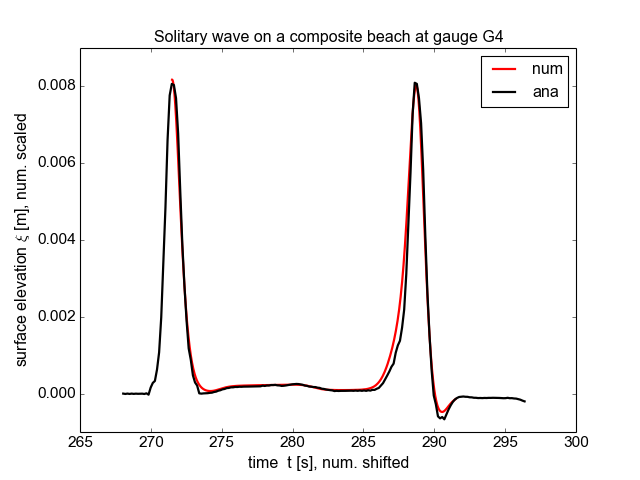
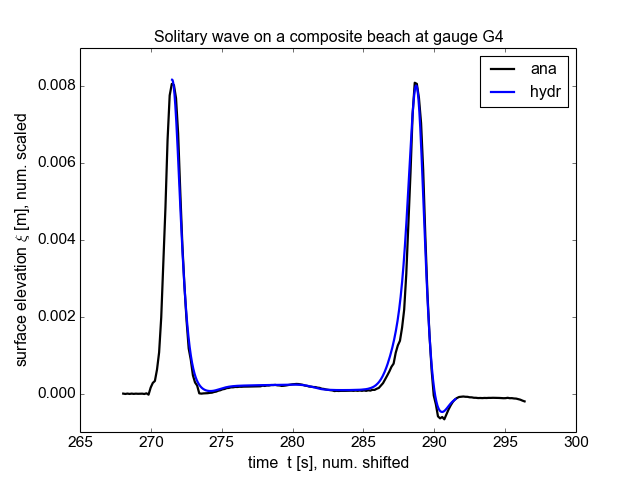
added dispersive results of composite beach, adapt figures of hydrostatic results

diff --git a/doc/papers/theoretical_1d/B_compositebeach.tex b/doc/papers/theoretical_1d/B_compositebeach.tex
@@ -41,7 +41,7 @@ The initial condition is prescribed as
 \xi(\bx,t)&=a \ \text{cosh}^{-2}(K(x-ct-x_0)), \\
 u(\bx,t)&=c\frac{\xi(\bx,t)}{d},
 \end{align}
-with the initial actual amplitude $a$, propagation velocity $c=\csw$ on a stepwise reduced depth starting from $d=0.218 \, \text{m}$ with scale factor $K=\sqrt{\left(\frac{3a}{4d^3}\right)}$ and displacement $x_0=10.59$, s.t. the initial solitary wave has its maximum at gauge G4 while the entire domain length is $L=24 \, \text{m}$. The simulation time is $20$ seconds. 
+with the initial target (but should better do it with actual amplitude, than the scaling of 0.75, which is the relation of both, should be redundant) amplitude $a$, propagation velocity $c=\csw$ on a stepwise reduced depth starting from $d=0.218 \, \text{m}$ with scale factor $K=\sqrt{\left(\frac{3a}{4d^3}\right)}$ and displacement $x_0=10.59$, s.t. the initial solitary wave has its maximum at gauge G4 while the entire domain length is $L=24 \, \text{m}$. The simulation time is $20$ seconds. 
  \item the first option in \url{https://github.com/rjleveque/nthmp-benchmark-problems/blob/master/BP05-ElenaT-Solitary_wave_on_composite_beach_laboratory/BP5_description.pdf}. The velocities are set to zero and the doubled initial surface elevation $2\xi$ is prescribed at $x=0$. A doubled domain length of $L=48 \, \text{m}$ ensures that the waves reflected at the left boundary are not disturbing the solution. The simulation time is $40$ seconds.
 \end{itemize}
 We impose reflecting boundary conditions at the boundary in x-direction and periodic boundary conditions in y-direction. For the setup see figure \ref{fig:compositebeach_setup}. 
@@ -56,9 +56,20 @@ Because the analytic solution belongs to the linear SWE, corresponding models ar
 \subsubsection{Results of \nh\ model}
 The results of the first and the seconds option are shifted by 271.5s and by 262.8s, respectively, to match the initial wave at gauge G4. Both are also scaled with a factor of 0.75.
 No difference between both options is visible in the figures then. Hence, we only plot the results of the (cheaper) first option using the linear SWE model and also the following results obtained with the \nh\ model.
+
 Figures \eqref{fig:nh_compositebeach_ana_nh_Lhy} and \eqref{fig:nh_compositebeach_lab_nh_Lhy} display the comparison of the linear SWE with the linear analytic solution and experimental data, respectively.
-The models results compared to the analytic solution are very good, while at gauges G9 and G10 a mismatch is visible, because this is a nonlinear regime (d $\in [0.047,0.117]$m, $a=0.039$m), for which the linear model is not suited.
+The models results compared to the analytic solution are very good, while at gauges G9 and G10 a mismatch is visible, because the nonlinear regime is entered here (d $\in [0.047,0.117]$m, $a=0.008502$m), for which the linear model is not suited.
 The comparison to the experimental data reveals less dispersion and reduced amplitudes, although the overall match is also satisfactory.
+
+Figures \eqref{fig:nh_compositebeach_ana_nh_Nnh12} and \eqref{fig:nh_compositebeach_lab_nh_Nnh12} display the comparison of the \nh\ equations using both the linear and the quadratic pressure profile with the linear analytic solution and experimental data, respectively. The \nh\ wave profile represents well the amplitudes, the shape of the propagating wave, the propagation velocities and also the developed dispersive wave train after reflecting of the laboratory surface elevation. The agreement with the linear analytic solution is worse, but still okay.
+When wave hits step, the numerical sea surface height is not as much increased as the amplitude of exp data. 
+
+Differences between both vertical pressure profiles are small, because dispersive effects become more significant after longer simulation time. However, the tendency of the linear profile to overestimate amplitudes, which was also visible in figure \ref{fig:nh_solitarywave}, is confirmed here, too. Additionally, we see that is also true not only for global maxima, but also for local maxima.
+
+The analytic solution is a good test for the verification of the linear SWE model, whereas the laboratory data show its limits of applicability as well as that the dispersive model gives a more accurate physical representation of the experimental data.
+
+Need to do: wq refl b.c. may be not good enough (not explicit treatment at the moment), edge integrals are missing.
+
 
 \begin{figure}[htbp]
 \begin{minipage}{\textwidth}
@@ -78,7 +89,7 @@ The comparison to the experimental data reveals less dispersion and reduced ampl
 \includegraphics[width=0.48\textwidth]{compositebeach_ana_Wall_nh_Lhy}
 \end{minipage}
 \caption{Comparison of the analytical (black) sea surface height of the
-solitary wave with the simulation results of the \nh\ model in its version of linear shallow water equations (red)}
+solitary wave with the simulation results of the \nh\ model in its version of linear shallow water equations (blue)}
 \label{fig:nh_compositebeach_ana_nh_Lhy}
 \end{figure}
 
@@ -98,17 +109,71 @@ solitary wave with the simulation results of the \nh\ model in its version of li
 \begin{minipage}{0.48\textwidth}
 \includegraphics[width=\textwidth]{compositebeach_lab_G10_nh_Lhy}
 \end{minipage} 
-\qquad 
 \begin{minipage}{0.45\textwidth}
 \begin{tabular}{lll}
 \textbf{Data} & \textbf{Runup} & \textbf{R / d} \\
               & \textbf{R [cm]} &  \\
 \toprule
 Exp.  &  2.74   &  0.13 \\
-Model &  2.16   &  0.10 \\
+Model hydr. &  2.16   &  0.099 \\
 \end{tabular}
 \end{minipage}
 \caption{Comparison of the experimental (black) sea surface height of the
-solitary wave with the simulation results of the \nh\ model in its version of linear shallow water equations (red). The model runup is also scaled with 0.75.}
+solitary wave with the simulation results of the \nh\ model in its version of linear shallow water equations (blue). The model runup is also scaled with 0.75.}
 \label{fig:nh_compositebeach_lab_nh_Lhy}
+\end{figure}
+
+
+
+\begin{figure}[htbp]
+\begin{minipage}{\textwidth}
+\includegraphics[width=0.48\textwidth]{compositebeach_ana_G4_nh_Nnh12}
+\includegraphics[width=0.48\textwidth]{compositebeach_ana_G5_nh_Nnh12}
+\end{minipage} \\
+\begin{minipage}{\textwidth}
+\includegraphics[width=0.48\textwidth]{compositebeach_ana_G6_nh_Nnh12}
+\includegraphics[width=0.48\textwidth]{compositebeach_ana_G7_nh_Nnh12}
+\end{minipage} \\
+\begin{minipage}{\textwidth}
+\includegraphics[width=0.48\textwidth]{compositebeach_ana_G8_nh_Nnh12}
+\includegraphics[width=0.48\textwidth]{compositebeach_ana_G9_nh_Nnh12}
+\end{minipage} \\
+\begin{minipage}{\textwidth}
+\includegraphics[width=0.48\textwidth]{compositebeach_ana_G10_nh_Nnh12}
+\includegraphics[width=0.48\textwidth]{compositebeach_ana_Wall_nh_Nnh12}
+\end{minipage}
+\caption{Comparison of the analytical (black) sea surface height of the
+solitary wave with the simulation results of the \nh\ model in its \nh\ version using the linear (yellow) and the quadratic vertical pressure profile (red)}
+\label{fig:nh_compositebeach_ana_nh_Nnh12}
+\end{figure}
+
+\begin{figure}[htbp]
+\begin{minipage}{\textwidth}
+\includegraphics[width=0.48\textwidth]{compositebeach_lab_G4_nh_Nnh12}
+\includegraphics[width=0.48\textwidth]{compositebeach_lab_G5_nh_Nnh12}
+\end{minipage} \\
+\begin{minipage}{\textwidth}
+\includegraphics[width=0.48\textwidth]{compositebeach_lab_G6_nh_Nnh12}
+\includegraphics[width=0.48\textwidth]{compositebeach_lab_G7_nh_Nnh12}
+\end{minipage} \\
+\begin{minipage}{\textwidth}
+\includegraphics[width=0.48\textwidth]{compositebeach_lab_G8_nh_Nnh12}
+\includegraphics[width=0.48\textwidth]{compositebeach_lab_G9_nh_Nnh12}
+\end{minipage} \\
+\begin{minipage}{0.48\textwidth}
+\includegraphics[width=\textwidth]{compositebeach_lab_G10_nh_Nnh12}
+\end{minipage} 
+\begin{minipage}{0.45\textwidth}
+\begin{tabular}{lll}
+\textbf{Data} & \textbf{Runup} & \textbf{R / d} \\
+              & \textbf{R [cm]} &  \\
+\toprule
+Exp.  &  2.74   &  0.13 \\
+Model lin.&  2.18   &  0.10 \\
+Model quadr.&  2.12   &  0.097 \\
+\end{tabular}
+\end{minipage}
+\caption{Comparison of the experimental (black) sea surface height of the
+solitary wave with the simulation results of the \nh\ model in its \nh\ version using the linear (yellow) and the quadratic vertical pressure profile (red). The model runup is also scaled with 0.75.}
+\label{fig:nh_compositebeach_lab_nh_Nnh12}
 \end{figure}
